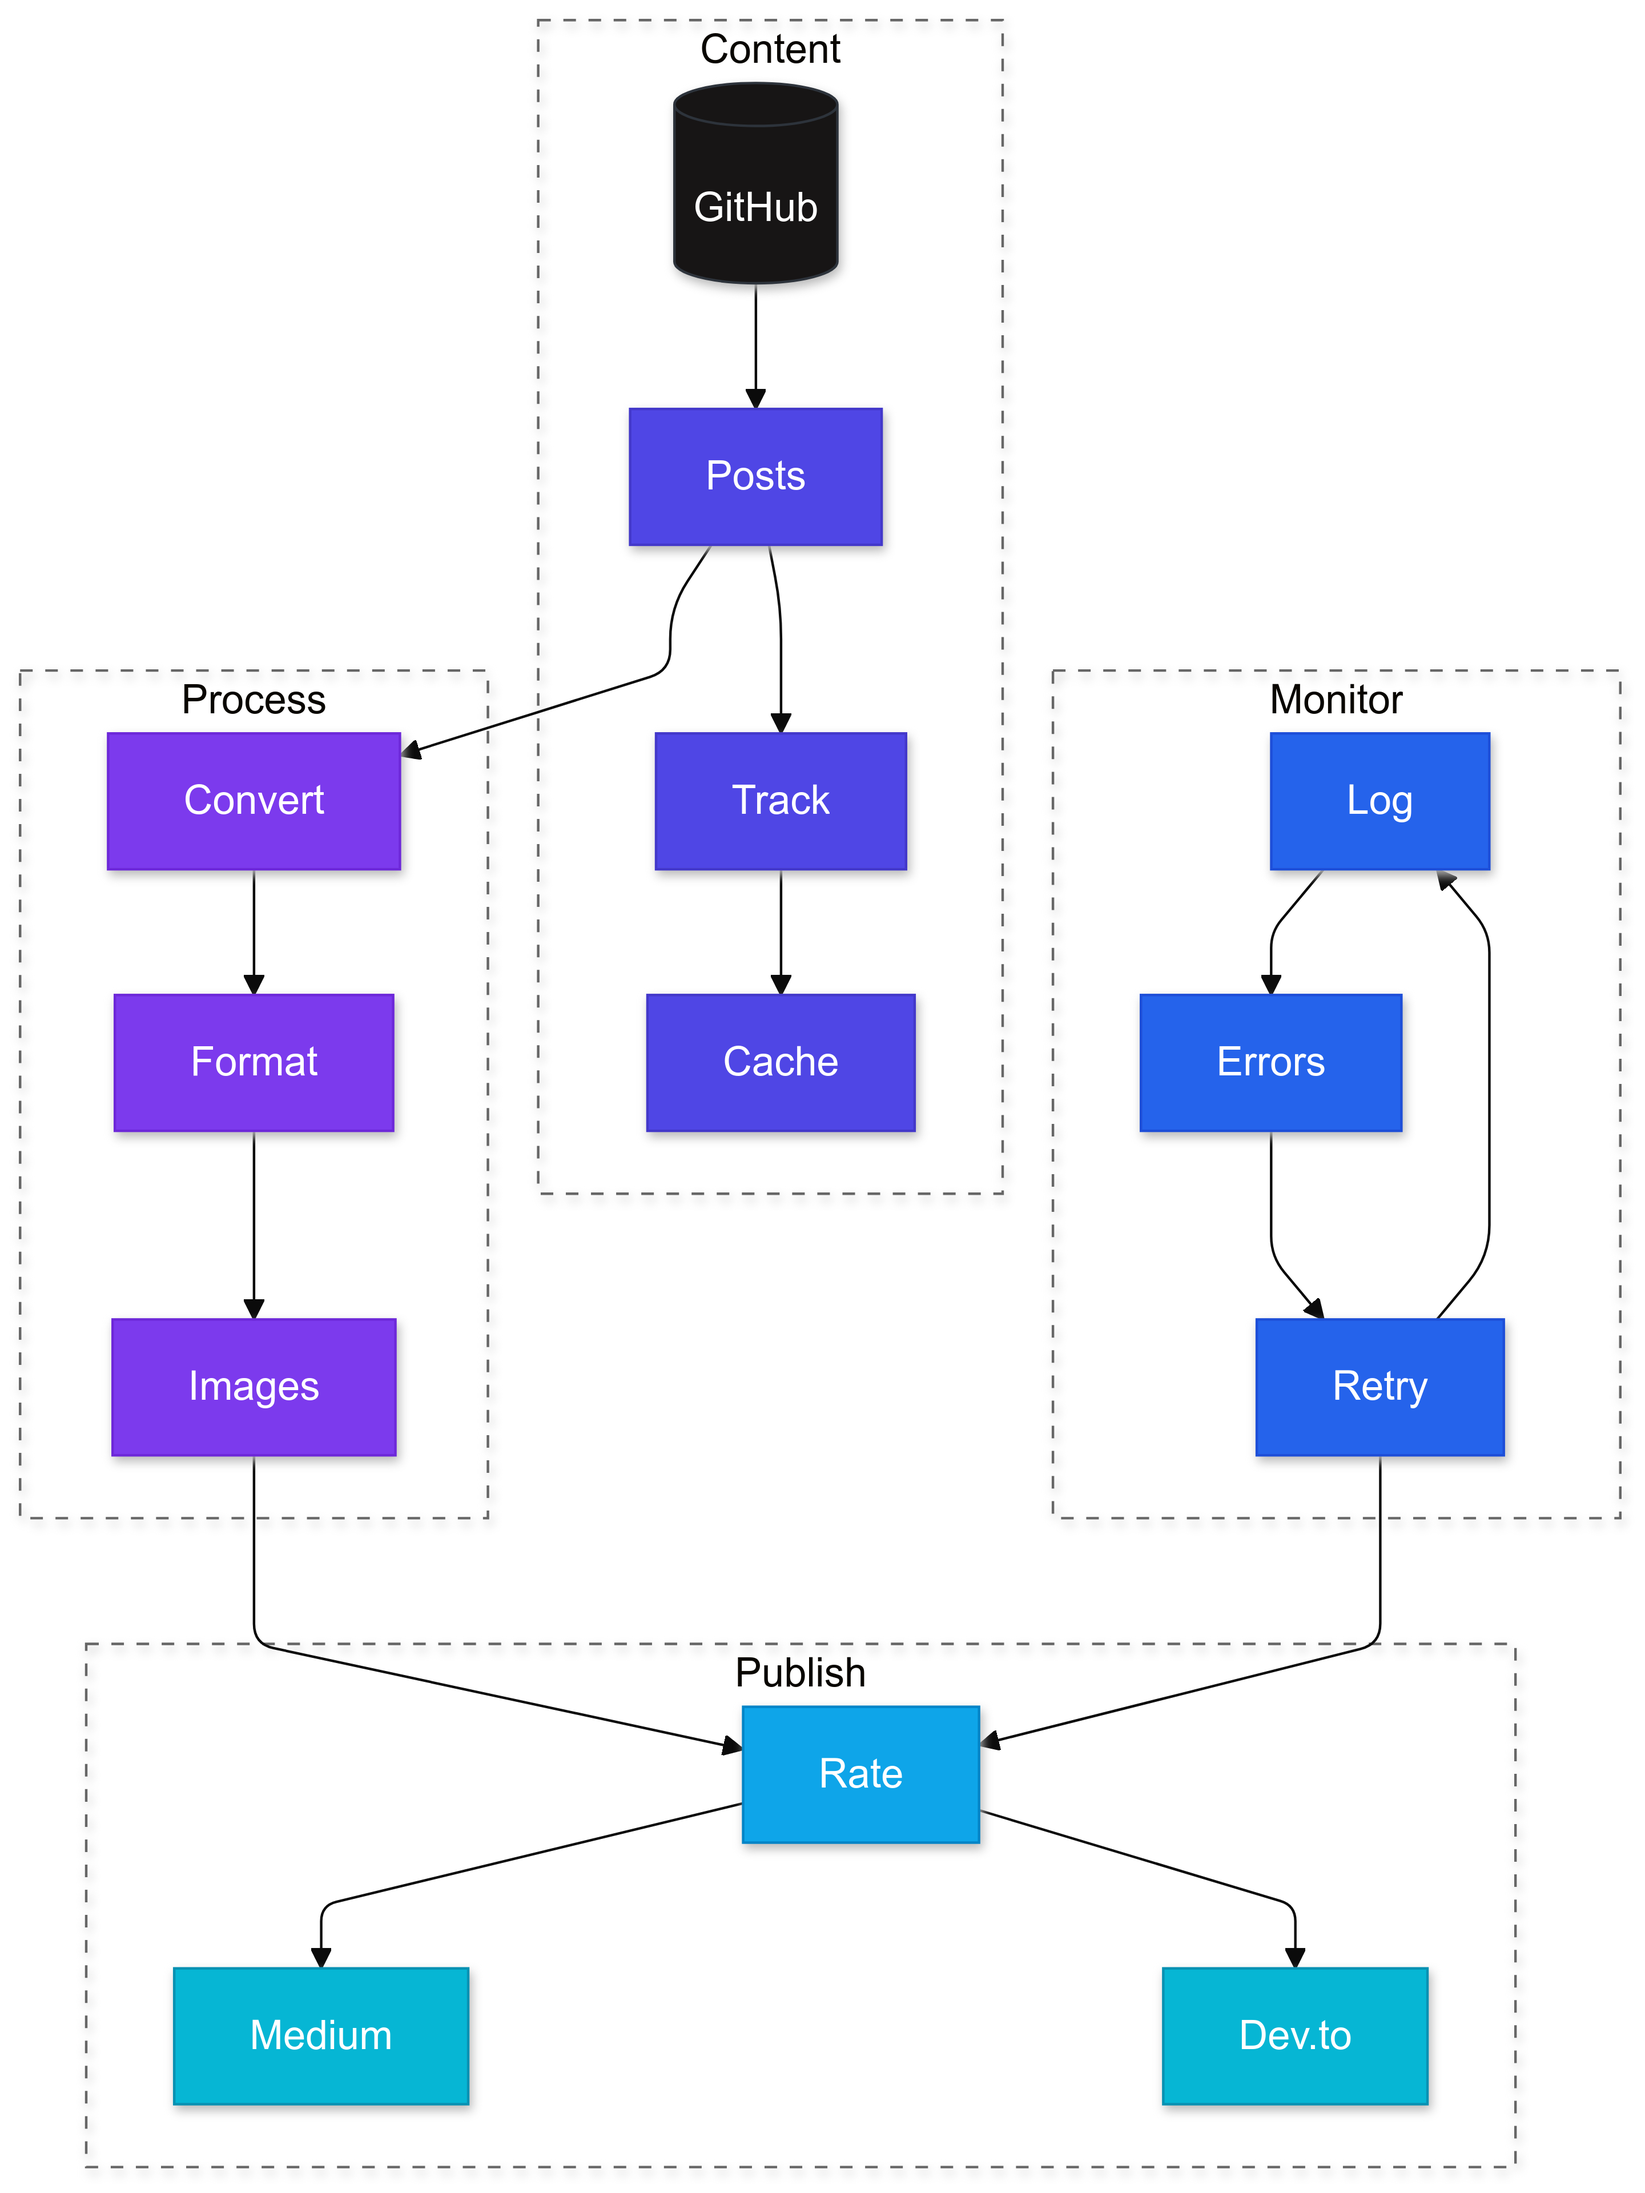
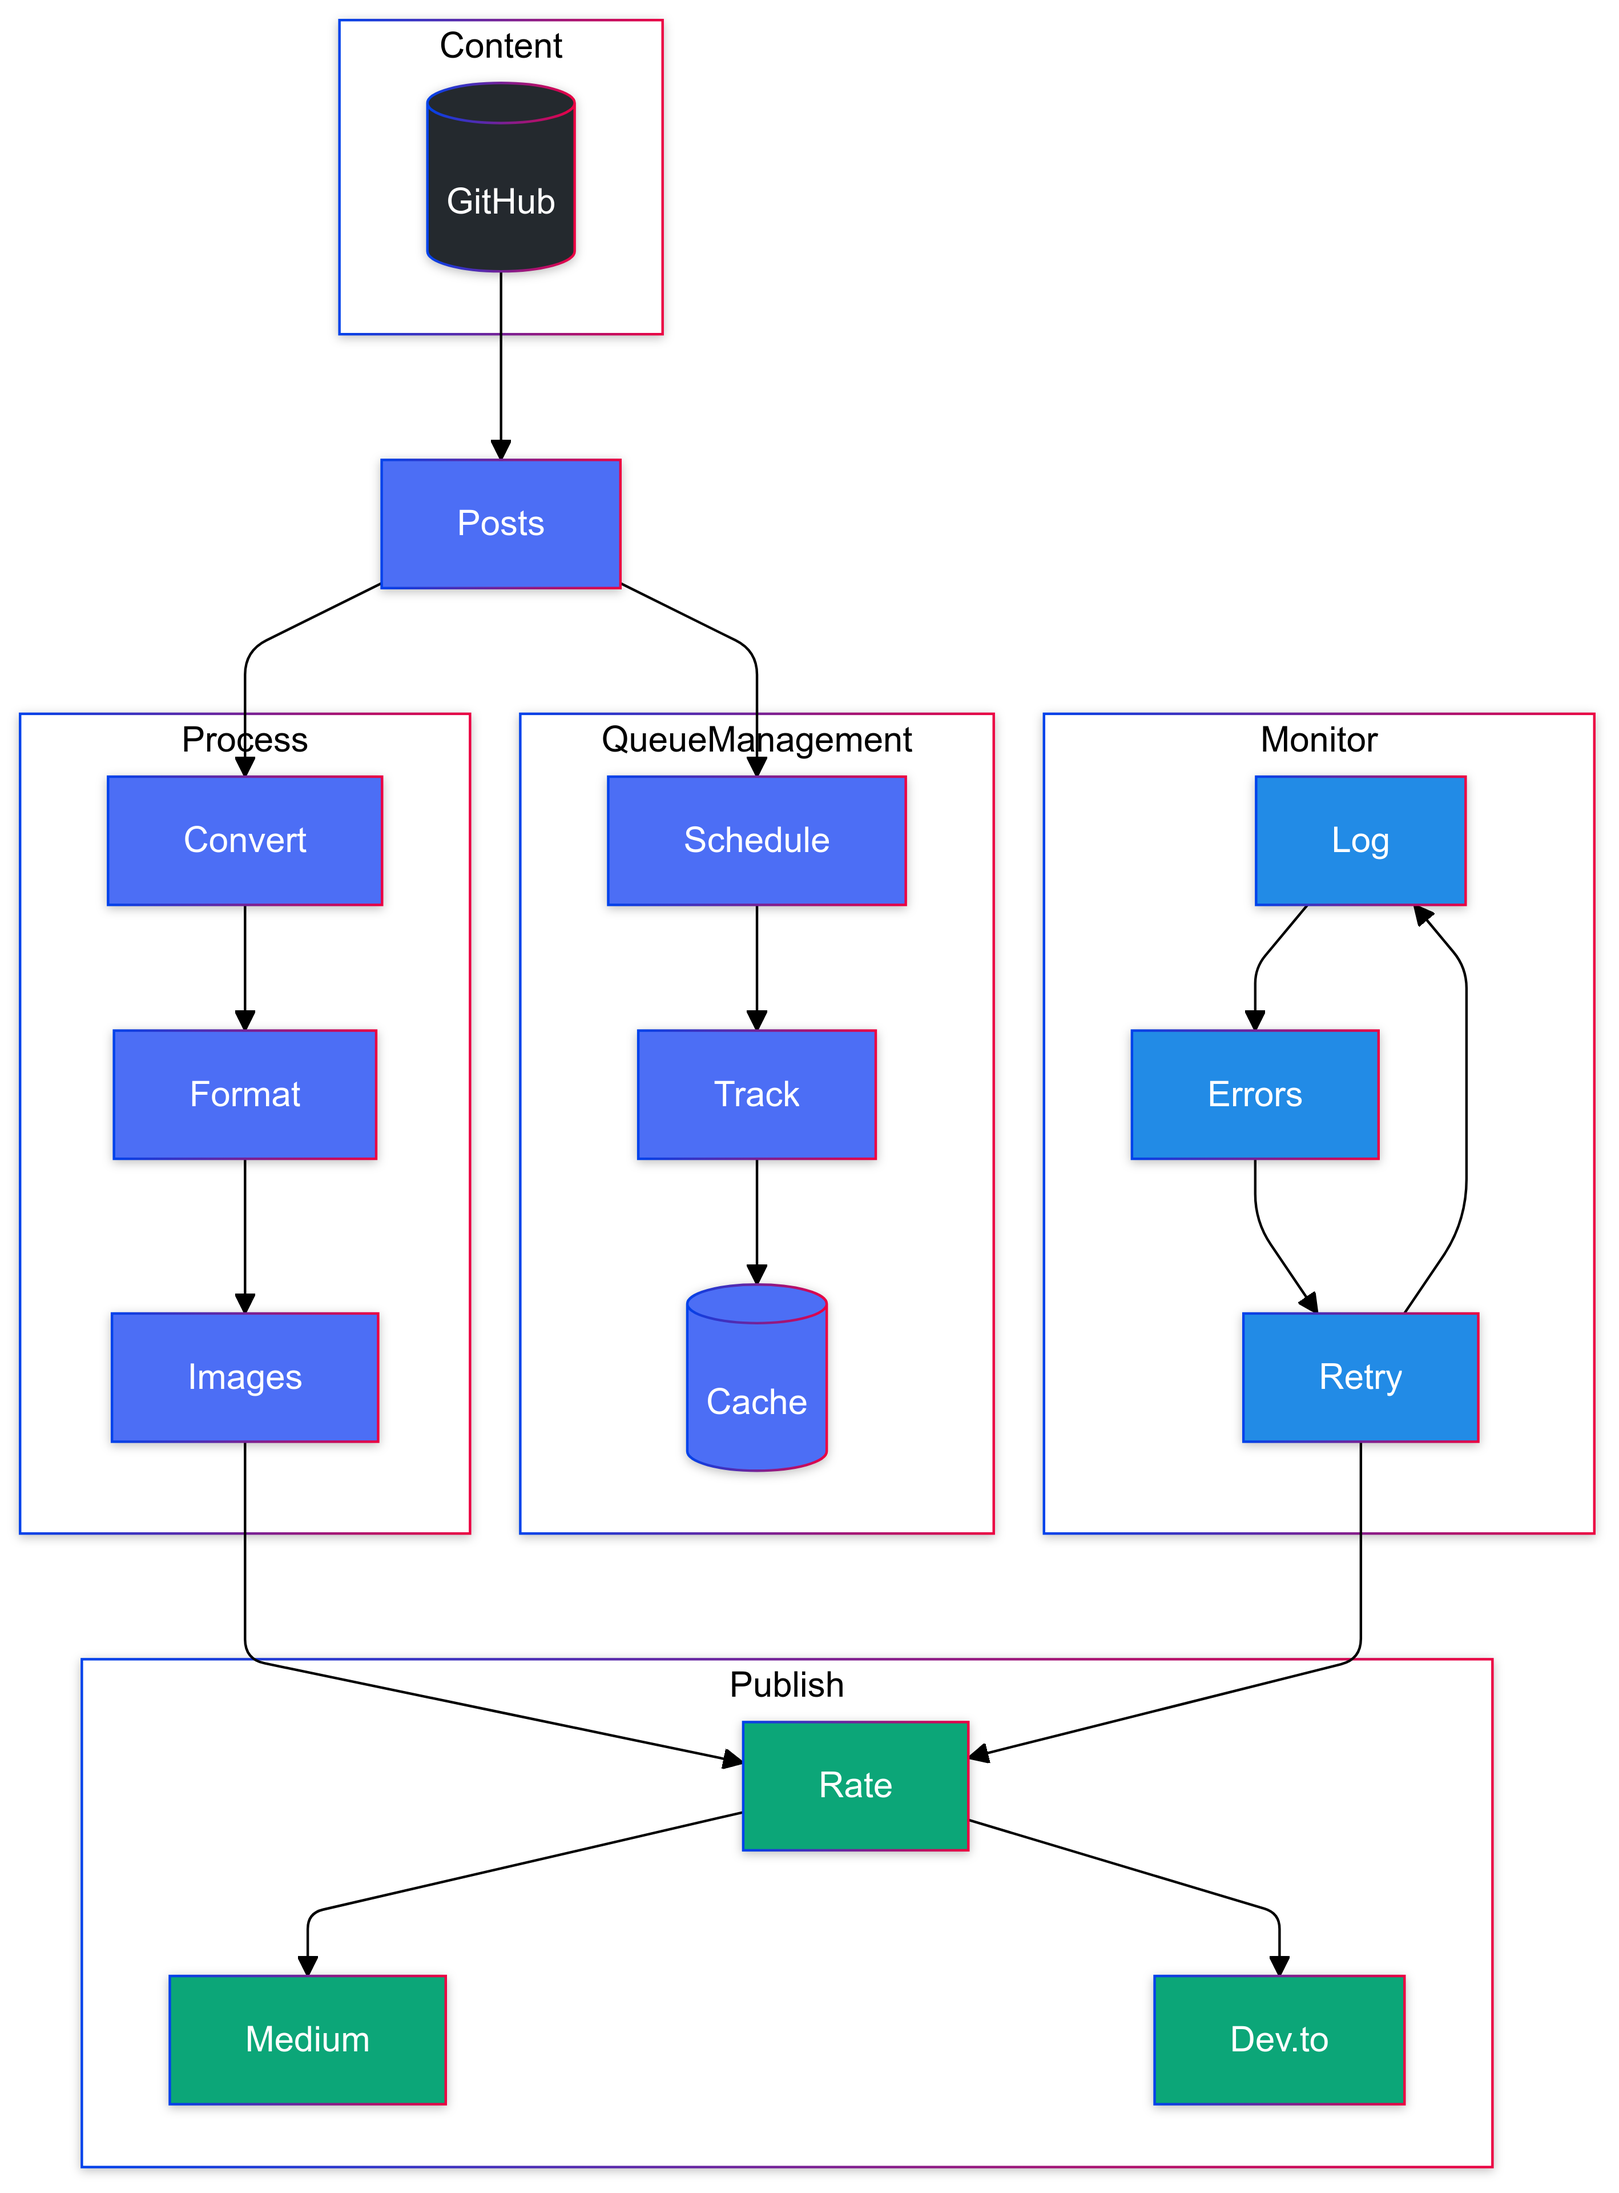
Docs updated

diff --git a/README.md b/README.md
@@ -27,6 +27,7 @@ It's that simple! Get started in under a minute.
 - **Platform-Optimized**: Automatically formats content to look perfect on each platform
 - **Battle-Tested**: Robust error handling and retry mechanisms ensure reliable publishing
 - **Developer-Friendly**: Clean architecture, comprehensive logging, and easy extensibility
+- **Scheduled Publishing**: Automated publishing at optimal times (Tuesday/Thursday 13:00 UTC, Saturday 15:00 UTC)
 
 ## 📊 Key Metrics
 
@@ -36,14 +37,20 @@ It's that simple! Get started in under a minute.
 - 📈 **100% Platform Coverage** for Medium and Dev.to
 - 🚀 **3x Faster** content distribution
 - 💪 **24/7 Reliability** with automated recovery
+- 🕒 **Scheduled Publishing** for optimal reach
 
 ## 🏗 Architectural Excellence
-This blog automation system enables developers to write content once in Markdown and automatically publish it across multiple platforms (Medium and Dev.to) while maintaining content integrity through robust tracking and caching mechanisms. The architecture follows a streamlined flow: content management handles the posts and tracking, processing converts and formats the content appropriately, monitoring ensures reliability through error handling and retries, and finally, the publishing layer manages rate-limiting and platform-specific distributions.
 
-<figure >
+The architecture is designed around a seamless content publishing pipeline with four key components: Content Management, Queue Management, Processing, and Publishing. Content originates in GitHub repositories and flows through Posts, where the Queue Management system takes control. This new queuing system intelligently schedules posts for publication at predetermined times (Tuesday/Thursday at 13:00 UTC and Saturday at 15:00 UTC), maintaining a robust tracking mechanism to prevent duplicate publications.
+
+The Process section handles content transformation, converting markdown to platform-specific formats while managing images and formatting. Simultaneously, the Monitor component provides comprehensive logging, error handling, and automatic retry mechanisms for failed publications. This ensures reliability and recovery from common issues like rate limits or API timeouts.
+
+Finally, the Publish component manages the actual distribution to multiple platforms (Medium and Dev.to) with built-in rate limiting to respect platform-specific API constraints. The entire system is designed for automation and reliability, requiring minimal manual intervention once content is pushed to GitHub.
+
+<figure>
   <p align="center">
-      <img src="./architecture.png" alt="project architecture" />
-      <p align="center">Project Architecture</p> 
+      <img src="./architecture.png" alt="Updated project architecture" />
+      <p align="center">Enhanced Project Architecture</p> 
   </p>
 </figure>
 
@@ -79,6 +86,12 @@ This blog automation system enables developers to write content once in Markdown
 - CI/CD pipeline for content delivery
 - Scheduled publishing support
 
+### 6. Scheduled Publishing
+- Optimal time slots for maximum reach
+- Queue-based publication management
+- Timezone-aware scheduling
+- Flexible scheduling configuration
+
 ## 💫 Why Choose This Solution?
 
 | Feature | Manual Publishing | Other Tools | This Project |
@@ -91,7 +104,7 @@ This blog automation system enables developers to write content once in Markdown
 | Customization | Limited | Moderate | Fully Customizable |
 | Community Support | None | Varies | Active Community |
 | Integration | Manual | Limited | Extensive |
-
+| Scheduling | Manual | Basic | Advanced |
 
 ## 🚀 Getting Started
 
@@ -162,6 +175,13 @@ python scripts/publish_posts.py
 - Push to GitHub
 - GitHub Actions handles the rest
 - Check status in Actions tab
+
+3. **Scheduled Publishing**
+- Posts are automatically queued
+- Published at optimal times:
+  - Tuesday/Thursday: 13:00 UTC
+  - Saturday: 15:00 UTC
+- Queue status tracked in `.queue/post_queue.json`
 
 ## 🔍 Advanced Usage
 
@@ -236,16 +256,16 @@ RETRY_DELAYS = [30, 60, 120]  # seconds
 ## 🌟 Success Stories
 
 > "This automation tool transformed our content distribution process. What used to take hours now happens in seconds." 
-> *- John Doe, Lead Technical Writer*
+> *- Golap Hossain, Technical Writer*
 
 > "Finally found a solution that handles everything - from Markdown to publishing - without any hiccups."
-> *- Jane Smith, Developer Advocate*
+> *- Nahid, DevOps Engineer*
 
 > "The perfect tool for busy content creators. Set it up once and forget about manual cross-posting forever."
 > *- Tech Community Review*
 
 > "Our team's productivity increased significantly after implementing this automation pipeline."
-> *- Enterprise User*
+> *- Anonymous User*
 
 ## 🤝 Contributing
 
@@ -298,6 +318,9 @@ Let's discuss tech, automation, and more!
 - [ ] Advanced analytics
 - [ ] AI-powered content optimization
 - [ ] Custom website integration
+- [ ] Enhanced scheduling options
+- [ ] Multi-timezone support
+- [ ] Content performance tracking
 
 ---
 
